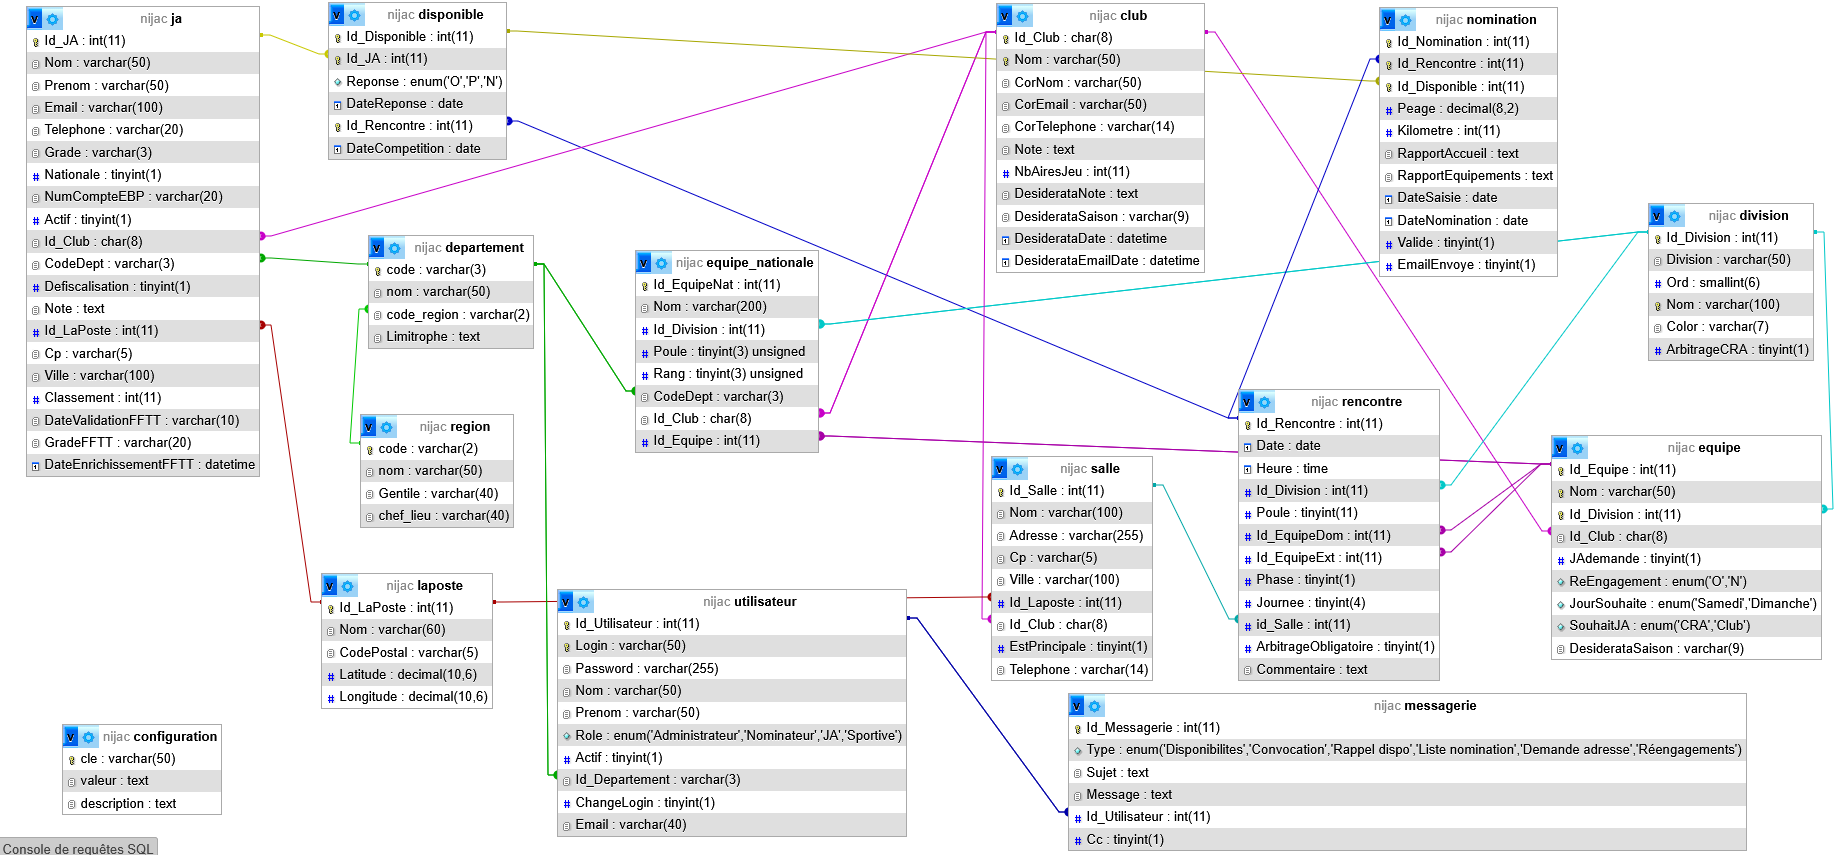
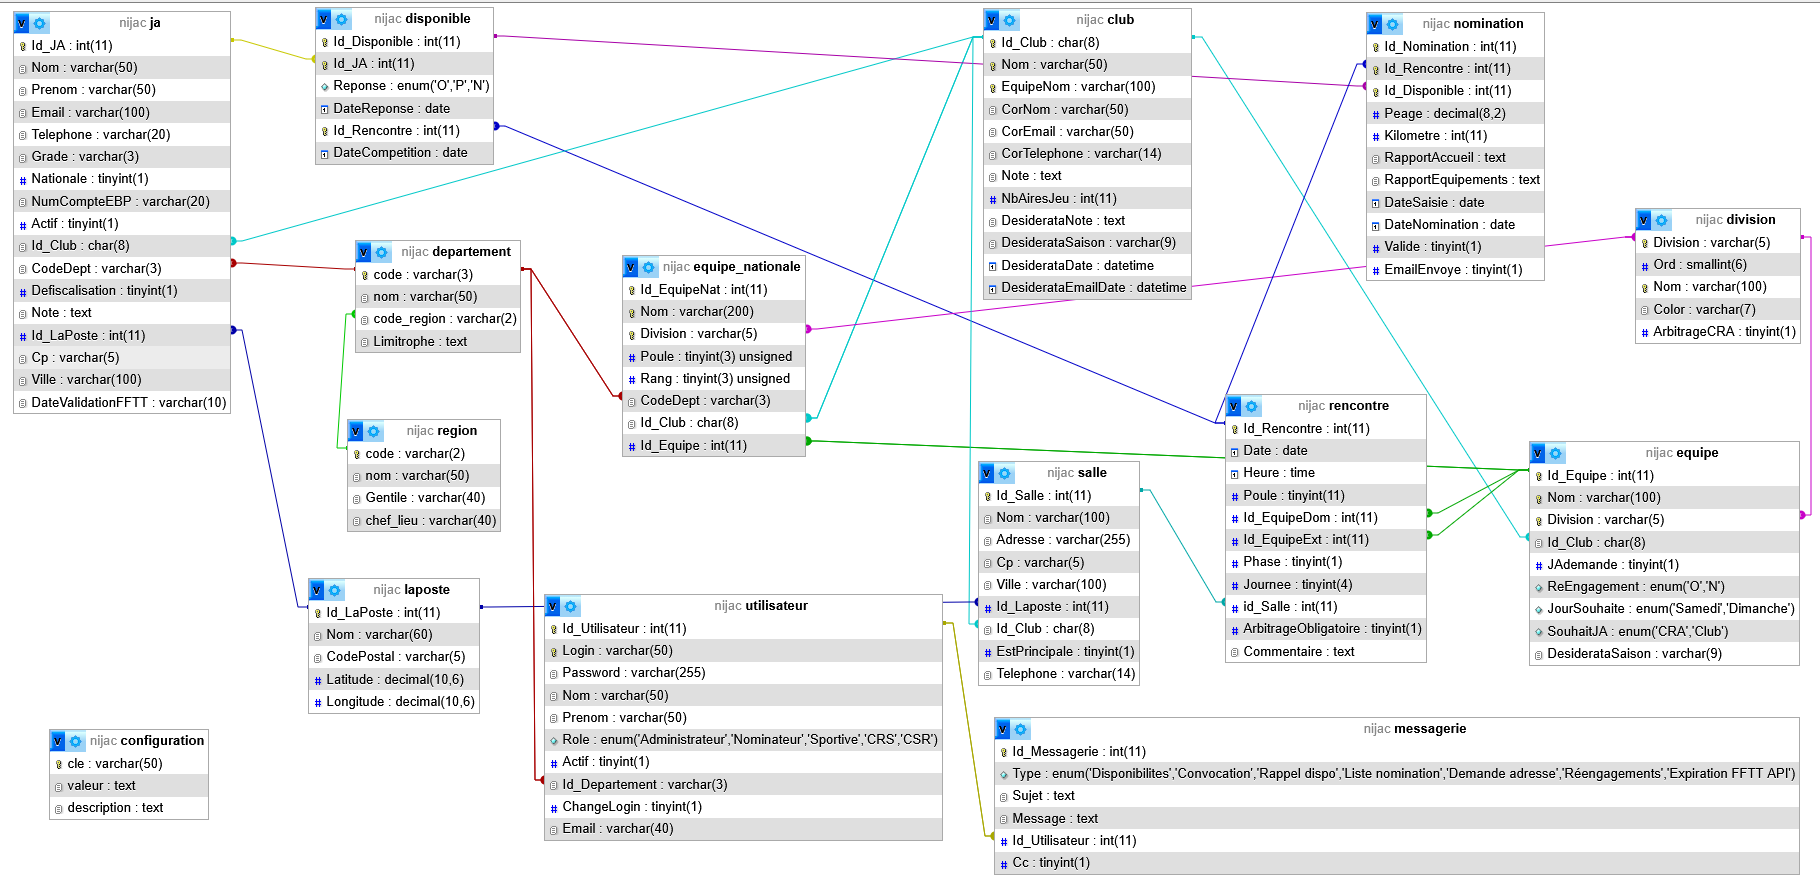
Modification database

diff --git a/ci4/app/Views/csr_menu_index.php b/ci4/app/Views/csr_menu_index.php
@@ -72,23 +72,37 @@
         }
         #toolbar .ts-pwd-warning:hover { color: #900; }
 
-        /* ── Grille de boutons (mêmes classes que E020/E002 pour une apparence cohérente) ── */
+        /* Visible seulement pour un Administrateur qui prévisualise le menu CSR (voir E020) — masqué pour le rôle CSR lui-même. */
+        #btn-switch-admin {
+            display: <?= $isAdmin ? 'inline-flex' : 'none' ?>;
+            align-items: center;
+            gap: .35rem;
+            padding: .25rem .75rem;
+            background: var(--nijac-blue);
+            color: #fff;
+            border: none;
+            border-radius: 5px;
+            font-size: .82rem;
+            font-weight: 600;
+            cursor: pointer;
+            text-decoration: none;
+            transition: background .15s;
+        }
+        #btn-switch-admin:hover { background: #0f2550; color: #fff; }
+
+        /* ── Grille de boutons (mêmes classes et même style que E002, pour une apparence
+           identique) ── */
         #menu-grid {
             display: grid;
             grid-template-columns: repeat(5, 1fr);
             gap: 16px;
-            padding: 16px 24px 24px;
+            padding: 24px;
             flex: 1;
-            /* Sans ça, l'unique ligne de cartes (peu de boutons ici, contrairement à
-               E002/E020) s'étire pour occuper tout l'espace vertical laissé par
-               flex:1, au lieu de ne prendre que la hauteur de son contenu. */
+            /* Contrairement à E002/E020 (assez de boutons pour remplir 2 lignes), E034 n'a
+               qu'une seule ligne à moitié remplie : sans ça, elle s'étire pour occuper tout
+               l'espace vertical laissé par flex:1 au lieu de ne prendre que sa hauteur de contenu. */
             align-content: start;
         }
-
-        /* Grid stretche déjà .menu-btn-wrap à la hauteur de la ligne, mais le lien
-           .menu-btn qu'il contient ne suit pas automatiquement (display:block) —
-           d'où les deux cartes de hauteurs différentes selon la longueur du texte. */
-        .menu-btn-wrap { display: flex; }
 
         .menu-btn {
             display: flex;
@@ -128,30 +142,36 @@
             object-fit: contain;
         }
 
-        .menu-btn .btn-icon i { font-size: 6rem; line-height: 1; }
-        .menu-btn span { line-height: 1.25; margin-top: 10px; }
+        .menu-btn .btn-icon i {
+            font-size: 6rem;
+            line-height: 1;
+        }
+
+        .menu-btn span {
+            line-height: 1.25;
+            margin-top: 10px;
+        }
+
         .menu-btn .btn-desc {
             font-size: .72rem;
             font-weight: 400;
             color: #555;
             margin-top: 4px;
             line-height: 1.3;
-            /* Place réservée pour 3 lignes max (au-delà : tronqué avec "…") — évite que
-               la carte grandisse selon la longueur du texte de description. */
-            max-height: 3.9em;
-            overflow: hidden;
-            display: -webkit-box;
-            -webkit-line-clamp: 3;
-            -webkit-box-orient: vertical;
         }
         .menu-btn:hover .btn-desc { color: #333; }
+
         .menu-btn:hover {
             filter: brightness(1.08);
             transform: translateY(-2px);
             box-shadow: 4px 6px 14px rgba(0,0,0,.22);
             color: #000;
         }
-        .menu-btn:active { transform: translateY(0); box-shadow: 1px 2px 4px rgba(0,0,0,.15); }
+
+        .menu-btn:active {
+            transform: translateY(0);
+            box-shadow: 1px 2px 4px rgba(0,0,0,.15);
+        }
 
         .btn-club-csr   { background-color: #e0f2f1; }
         .btn-messagerie { background-color: #fff8e1; }
@@ -179,39 +199,33 @@
 </div>
 
 <!-- Toolbar : recopié de includes/toolbar.php -->
-<?= view('partials/toolbar', ['tbNomComplet' => $nomComplet, 'tbDepartement' => $departement]) ?>
+<?= view('partials/toolbar', ['tbNomComplet' => $nomComplet, 'tbDepartement' => $departement, 'tbSwitchTo' => 'admin']) ?>
 
 <?php require __DIR__ . '/_modal_mdp.php'; ?>
 
 <!-- Grille -->
 <div id="menu-grid">
 
-    <div class="menu-btn-wrap">
-        <a href="<?= site_url('club-csr') ?>" class="menu-btn btn-club-csr">
-            <span class="btn-code">E035</span>
-            <div class="btn-icon"><img src="<?= base_url('img/Association.png') ?>" alt="Club CSR"></div>
-            <span>Club CSR</span>
-            <span class="btn-desc">Liste des clubs et envoi d'un email aux correspondants sélectionnés</span>
-        </a>
-    </div>
+    <a href="<?= site_url('club-csr') ?>" class="menu-btn btn-club-csr">
+        <span class="btn-code">E035</span>
+        <div class="btn-icon"><img src="<?= base_url('img/Association.png') ?>" alt="Club CSR"></div>
+        <span>Club CSR</span>
+        <span class="btn-desc">Liste des clubs et envoi d'un email aux correspondants sélectionnés</span>
+    </a>
 
-    <div class="menu-btn-wrap">
-        <a href="<?= site_url('messagerie') ?>" class="menu-btn btn-messagerie">
-            <span class="btn-code">E026</span>
-            <div class="btn-icon"><img src="<?= base_url('img/Messagerie.png') ?>" alt="Messagerie"></div>
-            <span>Messagerie</span>
-            <span class="btn-desc">Modifier le message envoyé aux correspondants de club</span>
-        </a>
-    </div>
+    <a href="<?= site_url('messagerie') ?>" class="menu-btn btn-messagerie">
+        <span class="btn-code">E026</span>
+        <div class="btn-icon"><img src="<?= base_url('img/Messagerie.png') ?>" alt="Messagerie"></div>
+        <span>Messagerie</span>
+        <span class="btn-desc">Modifier le message envoyé aux correspondants de club</span>
+    </a>
 
     <!-- Déconnexion -->
-    <div class="menu-btn-wrap" style="grid-column: 5;">
-        <a href="<?= site_url('logout') ?>" id="lnk-logout" class="menu-btn" style="background:#f8d7da;">
-            <div class="btn-icon"><i class="bi bi-box-arrow-right" style="color:#842029;"></i></div>
-            <span style="color:#842029;">Se déconnecter</span>
-            <span class="btn-desc" style="color:#842029;">Fermer la session en cours</span>
-        </a>
-    </div>
+    <a href="<?= site_url('logout') ?>" id="lnk-logout" class="menu-btn" style="background:#f8d7da; grid-column: 5;">
+        <div class="btn-icon"><img src="<?= base_url('img/Quitter.png') ?>" alt="Se déconnecter"></div>
+        <span style="color:#842029;">Se déconnecter</span>
+        <span class="btn-desc" style="color:#842029;">Fermer la session en cours</span>
+    </a>
 
 </div>
 

diff --git a/config/db.php b/config/db.php
@@ -50,7 +50,7 @@ if (!$isProduction) {
 
 // ── Constantes communes ───────────────────────────────────────────────────────
 define('DB_CHARSET',   'utf8mb4');
-define('APP_VERSION', '0.2.35');
+define('APP_VERSION', '0.2.36');
 
 // Seed secret pour l'obfuscation des identifiants JA dans les URL publiques
 // (doit rester identique entre génération et décodage)

diff --git a/ci4/app/Controllers/CsrMenuController.php b/ci4/app/Controllers/CsrMenuController.php
@@ -18,6 +18,7 @@ class CsrMenuController extends BaseController
             'nomComplet'  => trim(($u['nom'] ?? '') . ' ' . ($u['prenom'] ?? '')),
             'departement' => $u['id_departement'] ?? '',
             'changeLogin' => !empty($u['change_login']),
+            'isAdmin'     => !empty($u['is_admin']),
         ];
 
         return view('csr_menu_index', $data);
